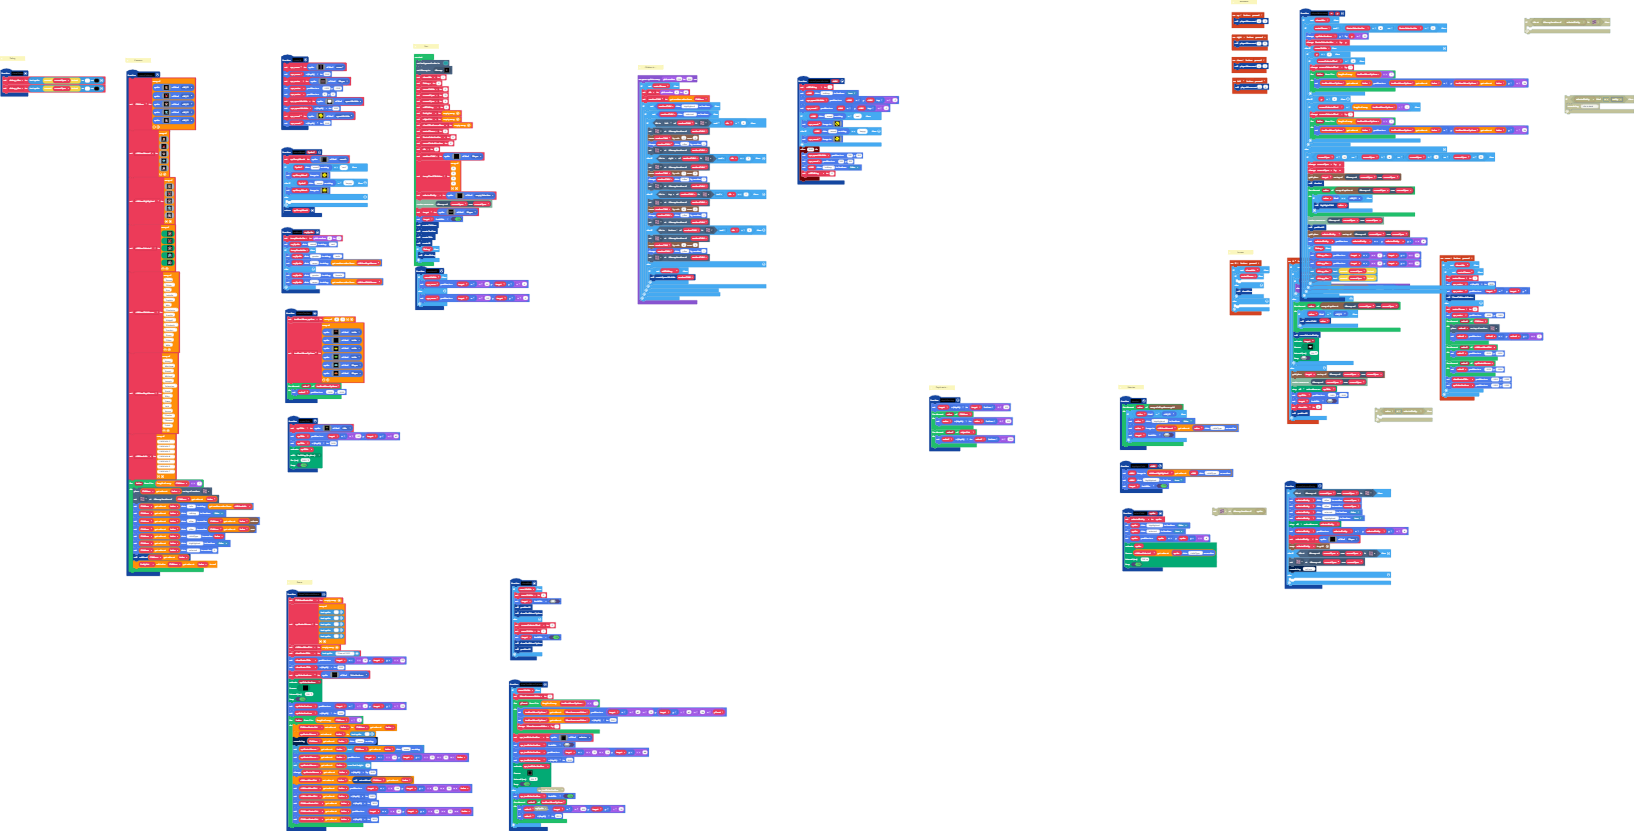
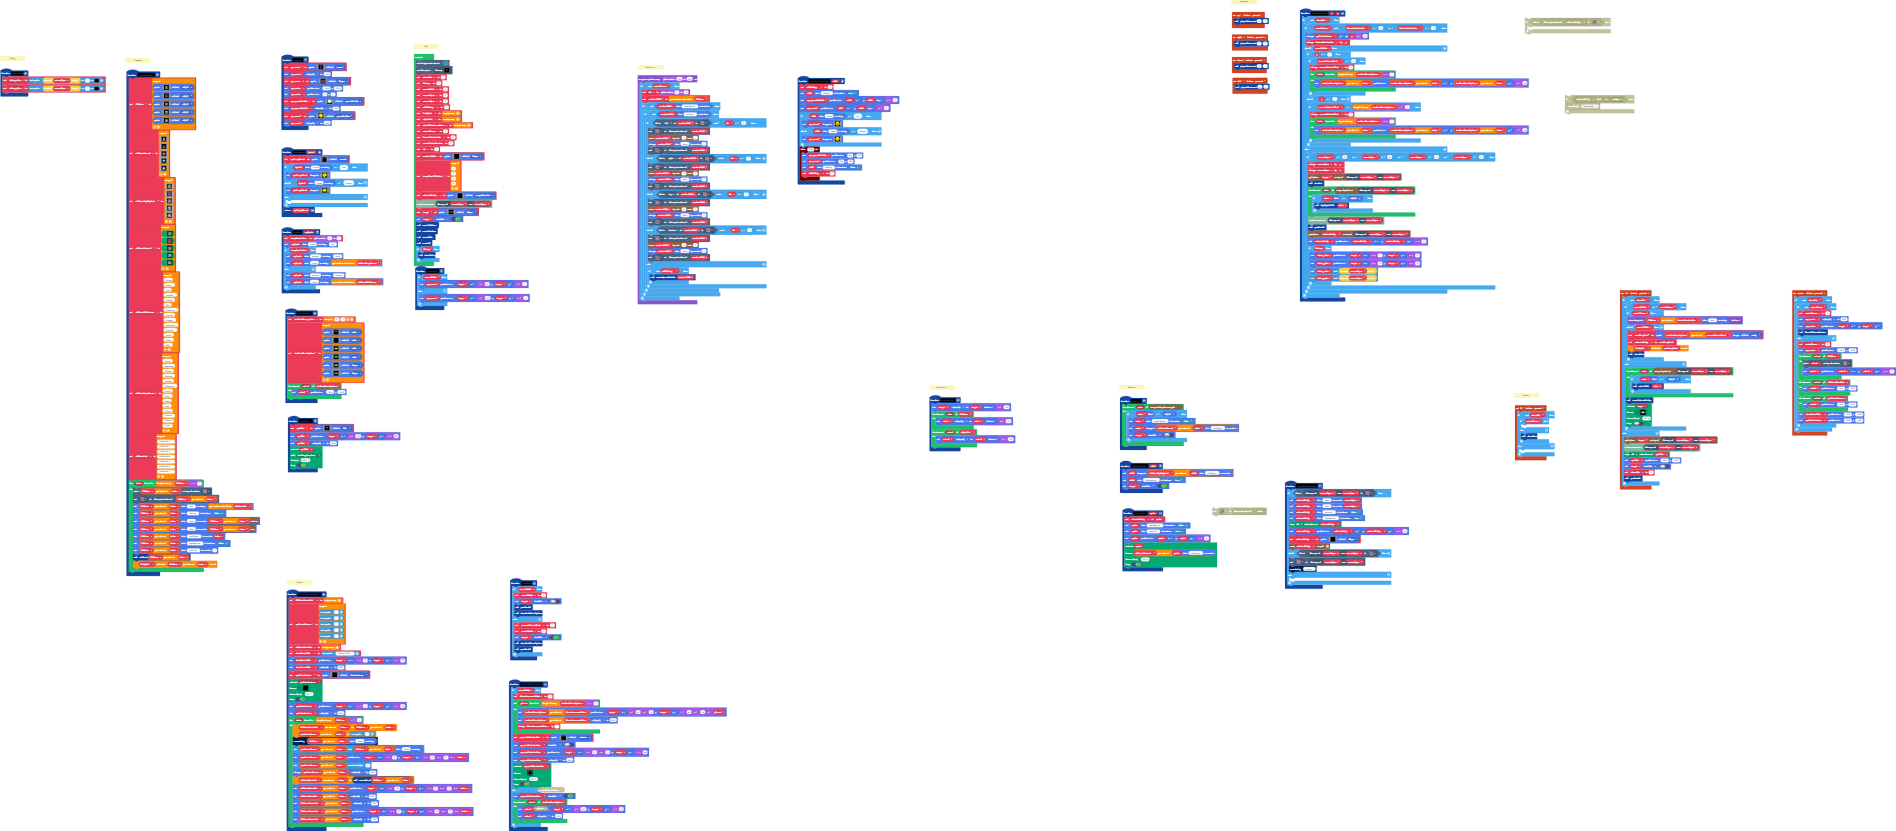
can place items

diff --git a/main.ts b/main.ts
@@ -150,6 +150,11 @@ controller.A.onEvent(ControllerButtonEvent.Pressed, function () {
         if (menuVisible || rosterShown) {
             if (rosterShown) {
                 game.showLongText(sprites.readDataString(Children[RosterSelectionVar], "info"), DialogLayout.Bottom)
+            } else if (menuVisible) {
+                newTempTool = sprites.create(toolboxMenuOptions[currentSelectedTool].image, SpriteKind.entity)
+                selectedEntity = newTempTool
+                EntityList.push(newTempTool)
+                showMenu()
             }
         } else {
             for (let value of grid.getSprites(tiles.getTileLocation(currentXpos, currentYpos))) {
@@ -515,19 +520,20 @@ function returnMood (Sprite2: Sprite) {
  * Start
  */
 let sprTempMood: Sprite = null
-let currentSelectedTool = 0
 let spr_toolSelectionBox: Sprite = null
 let MenuIncrementValue = 0
 let childrenInfo: string[] = []
 let childrenHighlighted: Image[] = []
 let debug_yPos: TextSprite = null
 let debug_xPos: TextSprite = null
-let toolboxMenuOptions: Sprite[] = []
 let toolboxMenu_sprites: number[] = []
 let childrenGirlsNames: string[] = []
 let childrenBoysNames: string[] = []
 let tempGenderVar = 0
 let sprTitle: Sprite = null
+let currentSelectedTool = 0
+let toolboxMenuOptions: Sprite[] = []
+let newTempTool: Sprite = null
 let Children: Sprite[] = []
 let sprSelectionIcon: Sprite = null
 let classRosterTitle: TextSprite = null
